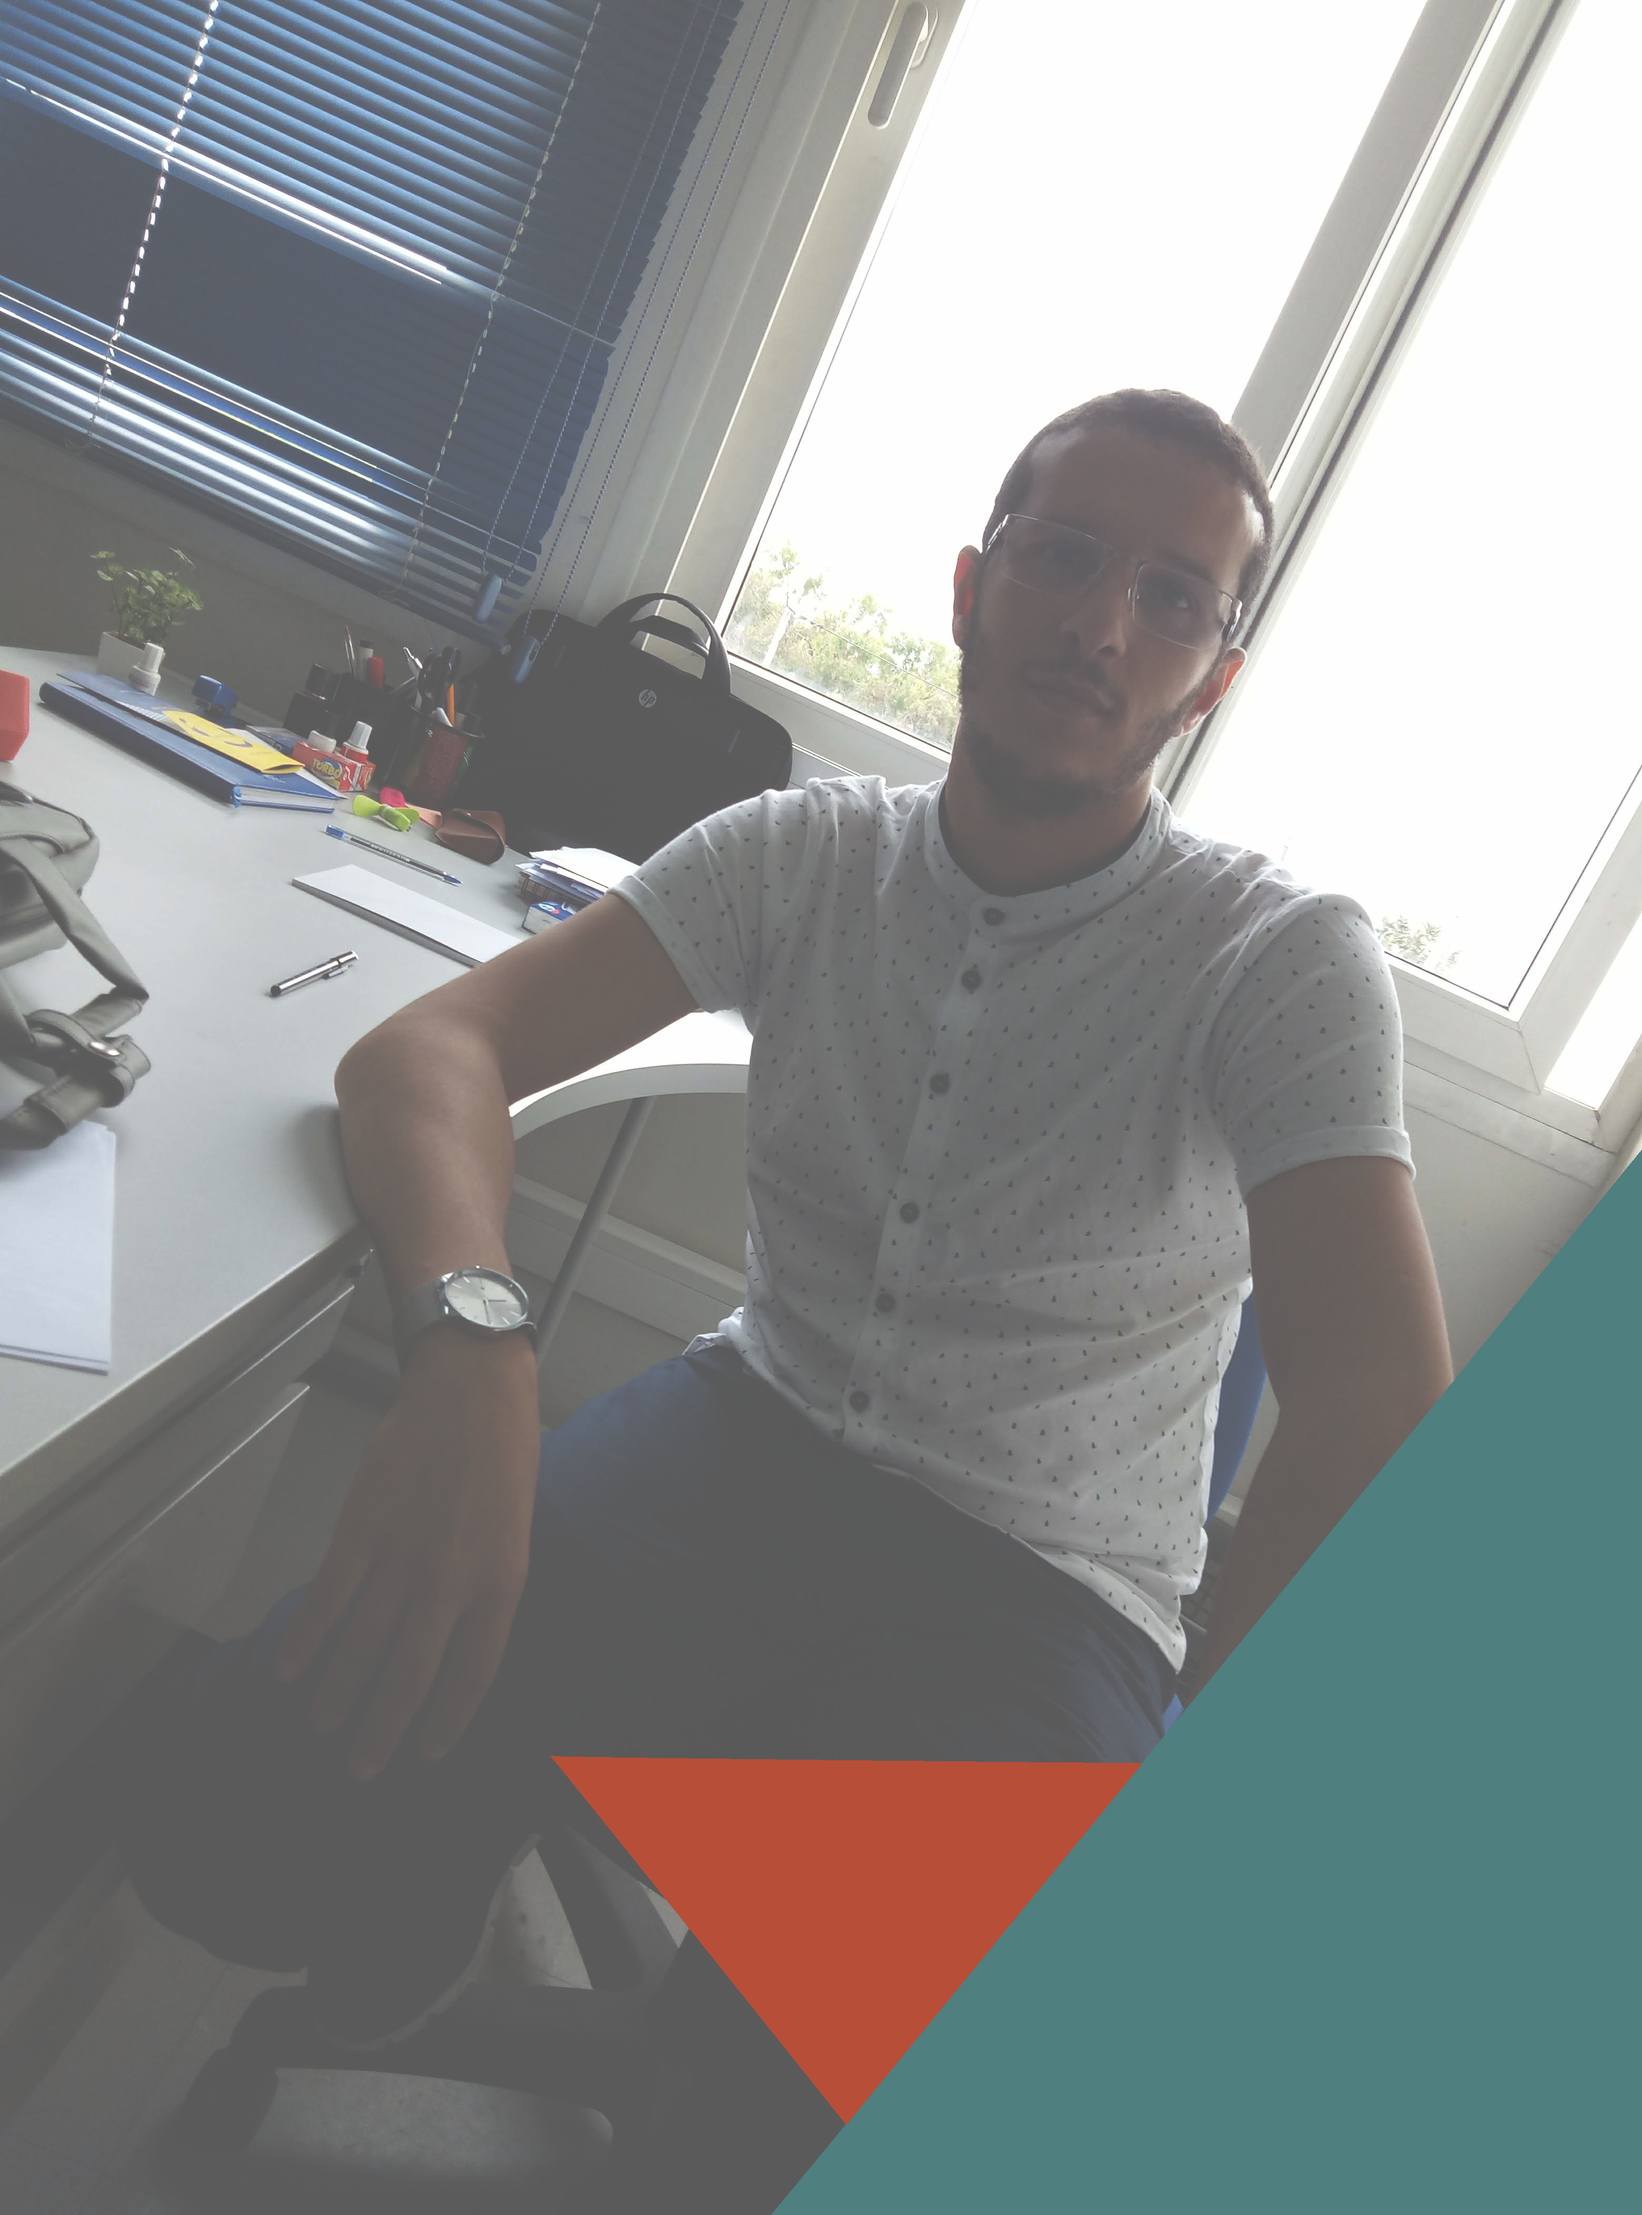
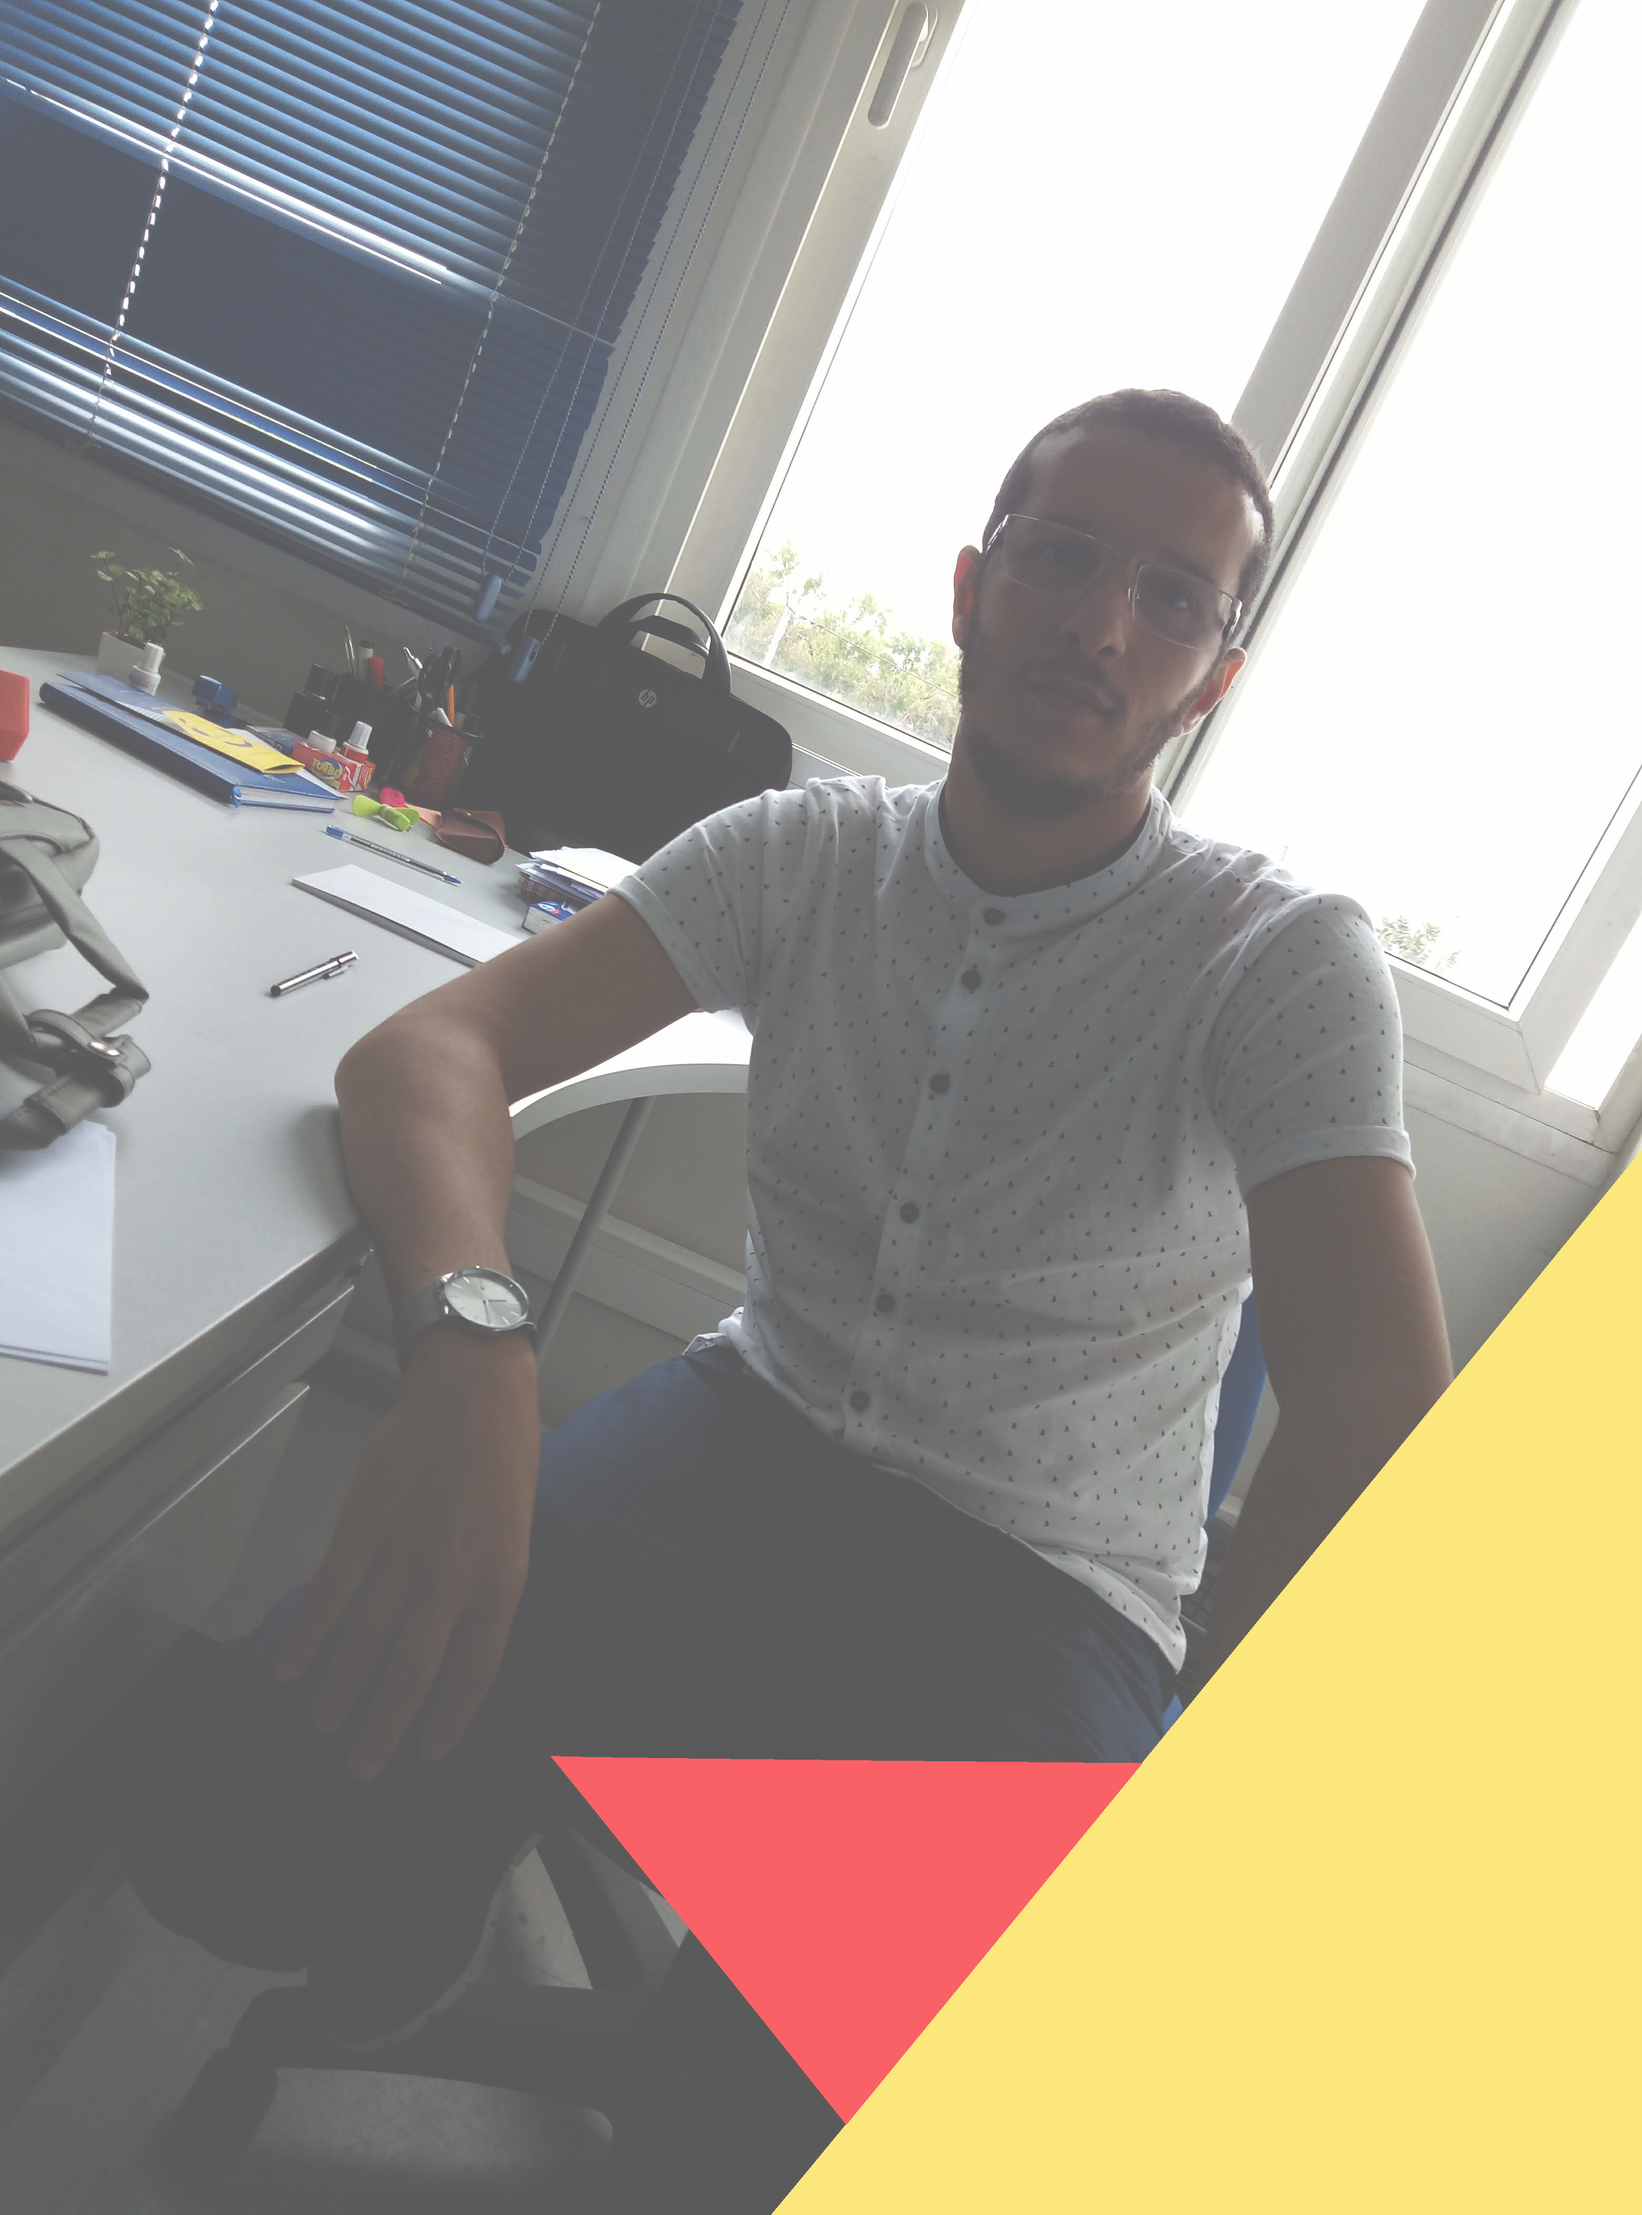
UPDATE:
* Changing colors
* Adding new intro image
* adding new expriences

Changed region(s): [[0.342, 0.4981, 1.0, 1.0]]

diff --git a/src/App.js b/src/App.js
@@ -22,7 +22,7 @@ class App extends Component {
     constructor () {
         super();
         this.name = 'Karim Oulad Chalha';
-        this.position = 'Angular developer';
+        this.position = 'Senior Web developer';
         this.email = 'ouladchalha.k@gmail.com';
         this.email_alt = 'contact@karimslab.com';
         this.tel = '+2126-4162-3527';
@@ -33,6 +33,14 @@ class App extends Component {
             "EXPERIENCED FULLSTACK DEVELOPER WITH A DEMONSTRATED HISTORY OF WORKING IN THE COMPUTER SOFTWARE INDUSTRY." +
             "SKILLED IN ANGULAR, LARAVEL, PYTHON.";
         this.experiences = [
+            {
+                id: 9,
+                position: 'Senior Web Developer',
+                company: 'CodeCave',
+                description: <span>Participating of the development of a cyber-security penetration testing platform called <a hrefh="https://www.buglab.io/">Buglab</a></span>,
+                time: 'Mar 2020 - Current',
+                icon: 'fas fa-briefcase fa-2x'
+            },
             {
                 id: 9,
                 position: 'Master\'s Degree Business Analytics et Big Data',
@@ -46,7 +54,7 @@ class App extends Component {
                 position: 'Lead Web Developer',
                 company: 'RC2K / Iliad Free',
                 description: <span>Developing an Incident Management System for <span className="text-secondary">Iliad Free.</span></span>,
-                time: 'Jan 2019 - Current',
+                time: 'Jan 2019 - Mar 2020',
                 icon: 'fas fa-briefcase fa-2x'
             },
             {
@@ -113,6 +121,7 @@ class App extends Component {
                 icon: 'fas fa-laptop-code fa-3x',
                 skills: [
                     <p key="1">Angular <span className="badge badge-primary">advanced</span></p>,
+                    <p key="1">Vue.js</p>,
                     <p key="2">Bootstrap <span className="badge badge-primary">advanced</span></p>,
                     <p key="3">SASS/LESS</p>,
                     <p key="4">Webpack</p>,
@@ -142,7 +151,8 @@ class App extends Component {
                     <p key="2">Gnu/Linux <span className="badge badge-primary">advanced</span></p>,
                     <p key="3">SSH</p>,
                     <p key="4">GIT <span className="badge badge-primary">advanced</span></p>,
-                    <p key="5">Slack</p>
+                    <p key="5">Slack</p>,
+                    <p key="6">Subversion/SVN</p>
                 ]
             }
         ];

diff --git a/src/components/Timeline/Timeline.css b/src/components/Timeline/Timeline.css
@@ -7,8 +7,8 @@
     justify-content: center;
     letter-spacing: 1px;
     font-size: 16px;
-    background-color: rgba(182, 78, 56, 1);
-    color: rgba(232, 232, 232, 1);
+    background-color: #FCE77D;
+    color: #1D1B1B;
 }
 
 .timeline-container h2 {
@@ -18,13 +18,13 @@
 .timeline-container h3 {
     font-family: 'Abril Fatface', cursive;
     padding-bottom: 10px;
-    color: #507f7f;
+    color: #1D1B1B;
     font-weight: 400;
 }
 
 .timeline-container p {
     font-size: 1rem;
-    color: #050505;
+    color: #F7F7F9;
 }
 
 @media only screen and (max-width: 600px) {
@@ -56,7 +56,7 @@
     }*/
 
     .timeline-container .cd-timeline__date {
-        color: #050505 !important;
+        color: #F7F7F9 !important;
         font-size: 16px;
     }
 }
@@ -208,8 +208,8 @@ Vertical Timeline - by CodyHouse.co
 .cd-timeline__content {
     position: relative;
     margin-left: 60px;
-    background-color: rgba(232, 232, 232, 1);
-    color: rgba(182, 78, 56, 1);
+    background-color: #1D1B1B;
+    color: #F96167;
     border-radius: 0.25em;
     padding: 1em;
     -webkit-box-shadow: 0 3px 0 #d7e4ed;
@@ -232,15 +232,15 @@ Vertical Timeline - by CodyHouse.co
     height: 0;
     width: 0;
     border: 7px solid transparent;
-    border-right: 7px solid white;
+    border-right: 7px solid #1D1B1B;
 }
 
-.cd-timeline__content h2 {
-    color: rgba(22, 22, 22, 1);
+.cd-timeline__content h3 {
+    color: #FCE77D;
 }
 
 .cd-timeline__img i {
-    color: rgba(182, 78, 56, 1) !important;
+    color: #F96167 !important;
     padding: 14px;
 }
 
@@ -249,7 +249,7 @@ Vertical Timeline - by CodyHouse.co
 }
 
 .cd-timeline__date {
-    color: rgba(232, 232, 232, 1);
+    color: #1D1B1B;
 }
 
 .cd-timeline__content p {
@@ -268,7 +268,7 @@ Vertical Timeline - by CodyHouse.co
 }
 
 @media only screen and (min-width: 768px) {
-    .cd-timeline__content h2 {
+    .cd-timeline__content h3 {
         font-size: 2rem;
     }
 
@@ -295,7 +295,7 @@ Vertical Timeline - by CodyHouse.co
         top: 24px;
         left: 100%;
         border-color: transparent;
-        border-left-color: rgba(232, 232, 232, 1);
+        border-left-color: #1D1B1B;
     }
 
     .cd-timeline__date {
@@ -315,7 +315,7 @@ Vertical Timeline - by CodyHouse.co
         left: auto;
         right: 100%;
         border-color: transparent;
-        border-right-color: rgba(232, 232, 232, 1);
+        border-right-color: #1D1B1B;
     }
 
     .cd-timeline__block:nth-child(even) .cd-timeline__date {

diff --git a/src/components/Portfolio/Portfolio.css b/src/components/Portfolio/Portfolio.css
@@ -7,12 +7,13 @@
     justify-content: center;
     letter-spacing: 1px;
     font-size: 16px;
-    background-color: rgba(182, 78, 56, 1);
+    background-color: #FCE77D;
     color: rgba(232, 232, 232, 1);
 }
 
 h2 {
     font-family: 'Abril Fatface', cursive;
+    color: #1D1B1B;
 }
 
 .portfolio .row {
@@ -33,9 +34,9 @@ h2 {
 
 .link-icon {
     display: none;
-    color: #507f7f !important;
+    color: #1D1B1B !important;
     vertical-align: middle;
-    border: 8px solid #507f7f;
+    border: 8px solid #1D1B1B;
     padding: 6px;
     border-radius: 50%;
     margin-top: 25%;
@@ -50,7 +51,7 @@ h2 {
     background-color: transparent;
 }
 .layer:hover {
-    background-color: #fff8;
+    background-color: #F7F7F98;
 }
 .layer:hover .link-icon {
     display: inline-block;
@@ -76,5 +77,5 @@ h2 {
     height: 0;
     border-left: 200px solid transparent;
     border-right: 0px solid transparent;
-    border-top: 100px solid #507f7f;
+    border-top: 100px solid #F96167;
 }

diff --git a/src/components/Skill/Skill.css b/src/components/Skill/Skill.css
@@ -7,8 +7,8 @@
     justify-content: center;
     letter-spacing: 1px;
     font-size: 16px;
-    color: #999;
-    background-color: rgba(232, 232, 232, 1);
+    color: #F7F7F9;
+    background-color: #1D1B1B;
 }
 
 .skills h2 {
@@ -19,7 +19,7 @@
 .skills .container h3 {
     font-family: 'Abril Fatface', cursive;
     padding-bottom: 15px;
-    color: #4d4d4d;
+    color: #FCE77D;
     font-size: 1.5rem;
 }
 
@@ -32,11 +32,11 @@
 }
 
 .skills .fab, .skills .fas {
-    color: #507f7f !important;
+    color: #1D1B1B !important;
     padding-bottom: 25px;
 }
 
 .skills .badge-primary {
-    background-color: #507f7f !important;
+    background-color: #F96167 !important;
     text-transform: uppercase;
 }

diff --git a/src/components/Intro/Intro.css b/src/components/Intro/Intro.css
@@ -19,7 +19,7 @@
   background-color: rgba(0, 0, 0, 0.7);
 }
 .text-danger:hover {
-  color: rgba(182, 78, 56, 1) !important;
+  color: #F96167 !important;
 }
 .text-facebook:hover {
   color: #4267b2 !important;
@@ -28,7 +28,7 @@
   color: #0073b1 !important;
 }
 .text-github:hover {
-  color: #FFF !important;
+  color: #F7F7F9 !important;
 }
 
 .intro .svg8 {
@@ -63,7 +63,7 @@
   text-transform: uppercase;
   letter-spacing: 10px;
   font-weight: 300;
-  color: #fff;
+  color: #F7F7F9;
 }
 
 

diff --git a/src/components/WhoAmI/WhoAmI.css b/src/components/WhoAmI/WhoAmI.css
@@ -1,5 +1,6 @@
 .who .row {
-    background-color: rgba(232, 232, 232, 1);
+    background-color: #1D1B1B;
+    color: #F7F7F9;
 }
 
 .who .who-img {
@@ -24,7 +25,7 @@
 }
 
 .who .text-primary {
-    color: rgba(182, 78, 56, 1) !important;
+    color: #F96167 !important;
     text-transform: uppercase;
     width: 150px !important;
     display: inline-block;

diff --git a/src/components/Footer/Footer.css b/src/components/Footer/Footer.css
@@ -33,7 +33,7 @@
     height: 100%;
     margin: 0;
     padding: 0;
-    background-color: rgba(0, 0, 0, 0.7);
+    background-color: #1D1B1BF1;
 }
 
 .copyleft-footer {
@@ -48,7 +48,7 @@
 }
 
 .fa-heart {
-    color: rgba(182, 78, 56, 1) !important;
+    color: #F96167 !important;
 }
 
 @media only screen and (max-width: 600px) {

diff --git a/src/index.css b/src/index.css
@@ -31,7 +31,7 @@ blockquote {
 }
 
 a {
-  color: #507f7f;
+  color: #1D1B1B;
 }
 
 a:hover {

diff --git a/README.md b/README.md
@@ -1,3 +1,6 @@
 karimslab.com
 ==========
 the project dot need any README, really believe me :smile:.
+
+
+Photo by [Danielle MacInnes](https://unsplash.com/@dsmacinnes?utm_source=unsplash&utm_medium=referral&utm_content=creditCopyText) on Unsplash
